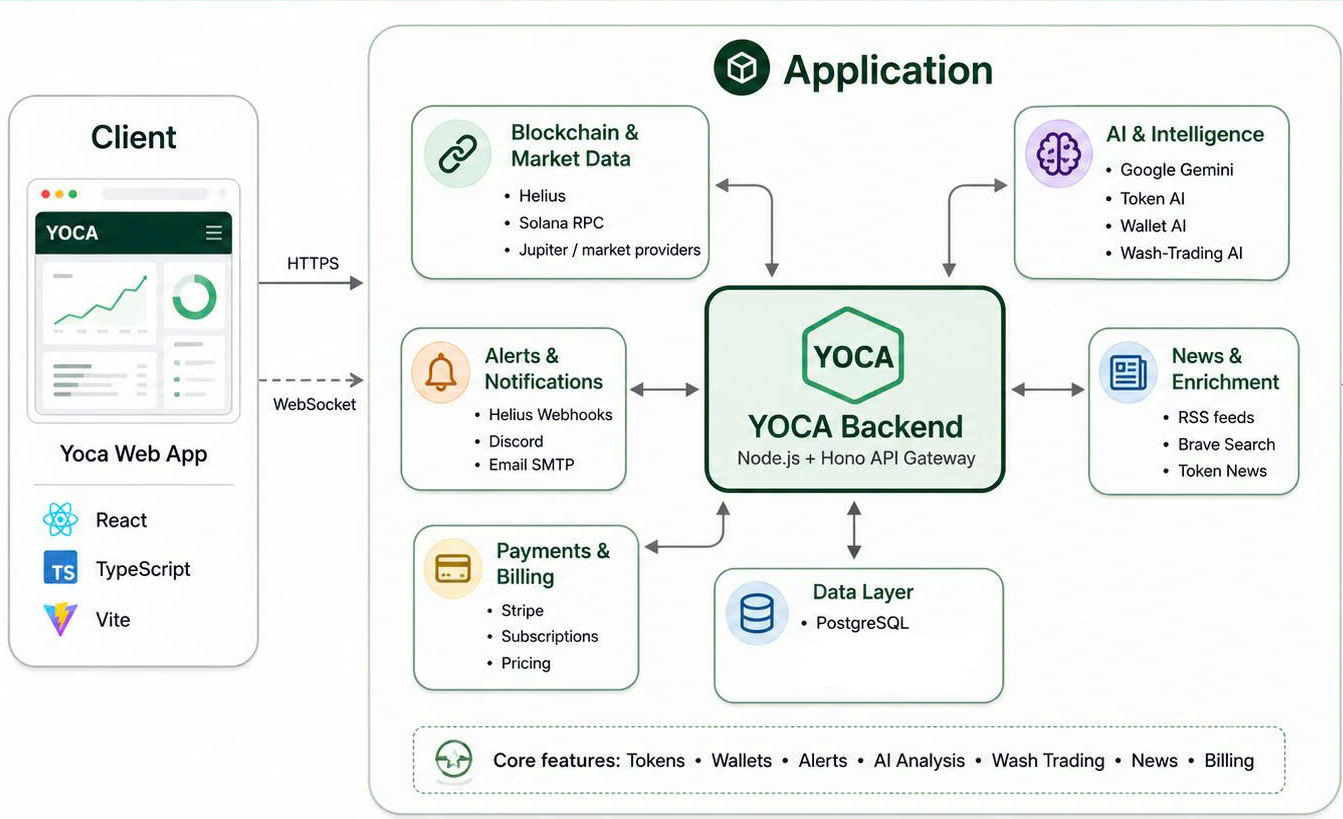
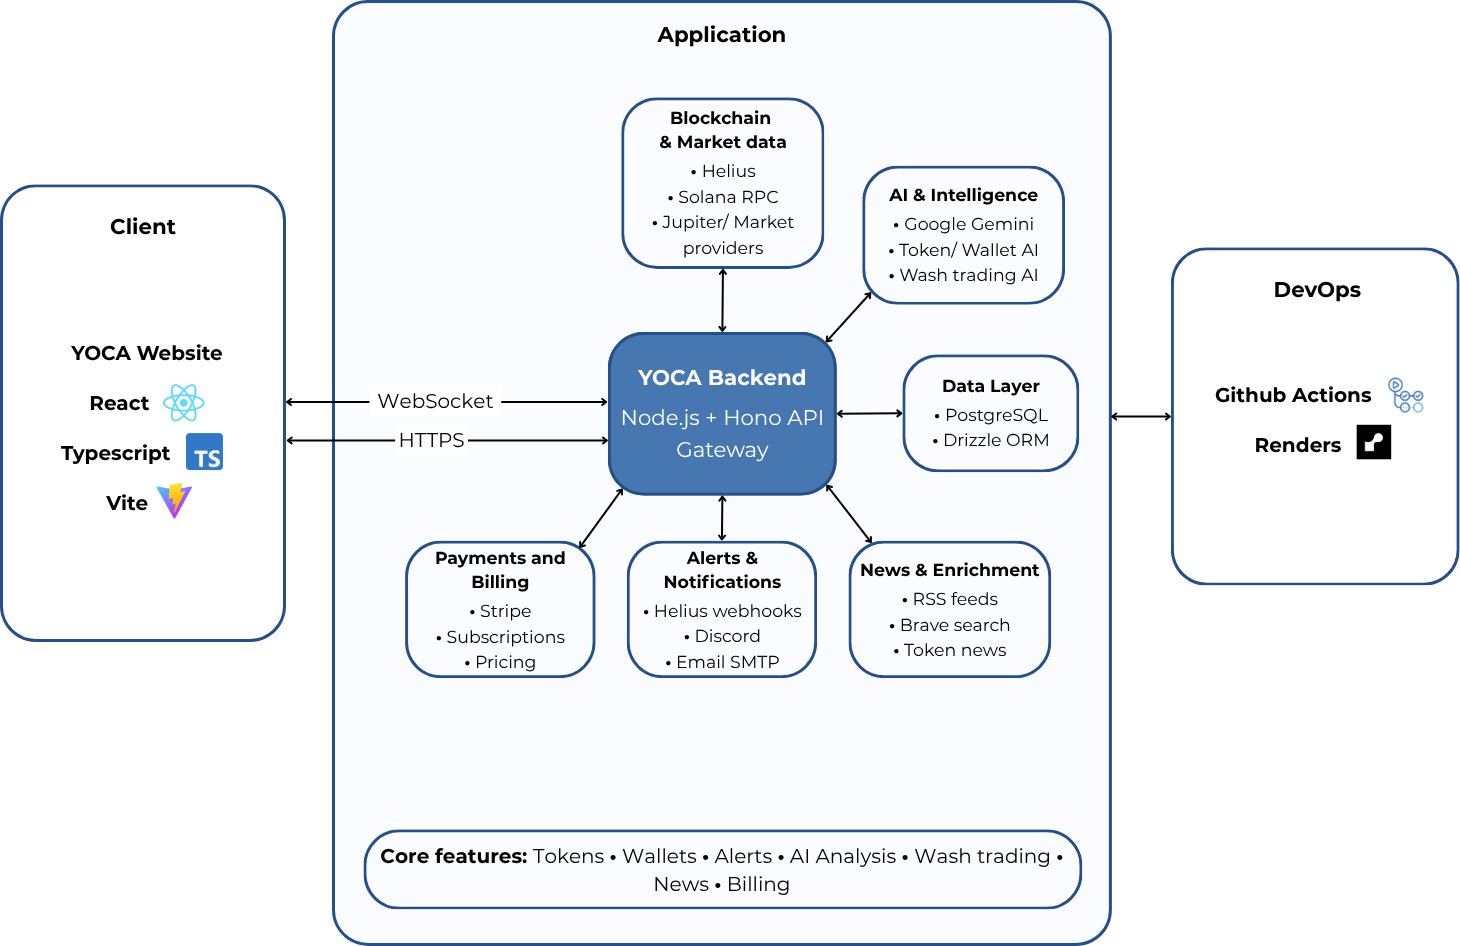
update arch

diff --git a/docs/reports/final_report/Chapter3/chapter3.tex b/docs/reports/final_report/Chapter3/chapter3.tex
@@ -96,7 +96,7 @@ Yoca được tổ chức theo kiến trúc ứng dụng web full-stack, gồm h
 % TODO: Bổ sung sơ đồ kiến trúc tổng thể.
 \begin{figure}[H]
     \centering
-    \includegraphics[width=1\textwidth]{images/arch.jpg}
+    \includegraphics[width=1\textwidth]{images/arch.png}
     \caption{Kiến trúc tổng thể của hệ thống Yoca}
     \label{fig:kien_truc_tong_the}
 \end{figure}